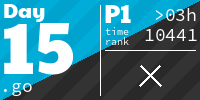
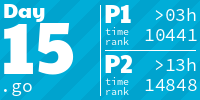
2024-12-15 part 2

diff --git a/2024/15/main.go b/2024/15/main.go
@@ -7,18 +7,13 @@ import (
 )
 
 func runeToDir(d rune) utils.Direction {
-	switch d {
-	case '^':
-		return utils.Up
-	case 'v':
-		return utils.Down
-	case '<':
-		return utils.Left
-	case '>':
-		return utils.Right
-
+	dirMap := map[rune]utils.Direction{
+		'^': utils.Up,
+		'v': utils.Down,
+		'<': utils.Left,
+		'>': utils.Right,
 	}
-	return utils.NotSet
+	return dirMap[d]
 }
 
 func part1(input arg) int {
@@ -29,41 +24,133 @@ func part1(input arg) int {
 
 	res := 0
 
+	moveObstacle := func(nextMove utils.Position, dir utils.Direction) {
+		for f := nextMove.Move(dir, 1); ; f = f.Move(dir, 1) {
+			if puzzle.Nodes[f] == '#' {
+				break
+			}
+			if puzzle.Nodes[f] == '.' {
+				input.robot = nextMove
+				puzzle.Nodes[nextMove] = '.'
+				puzzle.Nodes[f] = 'O'
+				break
+			}
+		}
+	}
+
 	for _, i := range input.inputs {
 		dir := runeToDir(i)
 		nextMove := input.robot.Move(dir, 1)
-		if puzzle.Nodes[nextMove] == '#' {
-			continue
-		}
-		if puzzle.Nodes[nextMove] == '.' {
-			input.robot = nextMove
-			continue
-		}
-		if puzzle.Nodes[nextMove] == 'O' {
-			f := nextMove.Move(dir, 1)
-			for {
-				if puzzle.Nodes[f] == '#' {
-					break
-				}
-				if puzzle.Nodes[f] == '.' {
-					input.robot = nextMove
-					puzzle.Nodes[nextMove] = '.'
-					puzzle.Nodes[f] = 'O'
-					break
-				}
-				f = f.Move(dir, 1)
-			}
-		}
 
+		switch puzzle.Nodes[nextMove] {
+		case '#':
+			continue
+		case '.':
+			input.robot = nextMove
+		case 'O':
+			moveObstacle(nextMove, dir)
+		}
 	}
 
-	for p := range puzzle.Nodes {
-		if puzzle.Nodes[p] == 'O' {
+	for p, val := range puzzle.Nodes {
+		if val == 'O' {
 			res += p.Col + p.Row*100
 		}
 	}
 
 	return res
+}
+
+func orderBoxPos(pos [2]utils.Position) [2]utils.Position {
+	if pos[0].Col < pos[1].Col {
+		return pos
+	}
+	return [2]utils.Position{pos[1], pos[0]}
+}
+
+func findMovedBoxes(puzzle utils.Grid[rune], pos [2]utils.Position, dir utils.Direction) [][2]utils.Position {
+	newLoc1 := pos[0].Move(dir, 1)
+	newLoc2 := pos[1].Move(dir, 1)
+
+	list := [][2]utils.Position{}
+	pos = orderBoxPos(pos)
+	list = append(list, pos)
+
+	newLoc := orderBoxPos([2]utils.Position{newLoc1, newLoc2})
+
+	switch dir {
+	case utils.Right:
+		if puzzle.Nodes[newLoc[1]] == '[' {
+			moved := [2]utils.Position{newLoc[1], newLoc[1].Move(dir, 1)}
+			list = append(list, findMovedBoxes(puzzle, moved, dir)...)
+		}
+	case utils.Left:
+		if puzzle.Nodes[newLoc[0]] == ']' {
+			moved := [2]utils.Position{newLoc[0], newLoc[0].Move(dir, 1)}
+			list = append(list, findMovedBoxes(puzzle, moved, dir)...)
+		}
+	case utils.Up, utils.Down:
+		if puzzle.Nodes[newLoc[0]] == '[' {
+			moved := [2]utils.Position{newLoc[0], newLoc[0].Move(utils.Right, 1)}
+			list = append(list, findMovedBoxes(puzzle, moved, dir)...)
+		}
+		if puzzle.Nodes[newLoc[0]] == ']' {
+			moved := [2]utils.Position{newLoc[0], newLoc[0].Move(utils.Left, 1)}
+			list = append(list, findMovedBoxes(puzzle, moved, dir)...)
+		}
+		if puzzle.Nodes[newLoc[1]] == '[' {
+			moved := [2]utils.Position{newLoc[1], newLoc[1].Move(utils.Right, 1)}
+			list = append(list, findMovedBoxes(puzzle, moved, dir)...)
+		}
+	}
+	return list
+}
+
+func moveBoxes(puzzle utils.Grid[rune], boxes [][2]utils.Position, dir utils.Direction) utils.Grid[rune] {
+	currentLeft := map[utils.Position]bool{}
+	currentRight := map[utils.Position]bool{}
+
+	for _, box := range boxes {
+		box = orderBoxPos(box)
+		currentLeft[box[0]] = true
+		currentRight[box[1]] = true
+	}
+
+	finalLeft := map[utils.Position]bool{}
+	finalRight := map[utils.Position]bool{}
+
+	for loc := range currentLeft {
+		newLoc := loc.Move(dir, 1)
+		finalLeft[newLoc] = true
+	}
+	for loc := range currentRight {
+		newLoc := loc.Move(dir, 1)
+		finalRight[newLoc] = true
+	}
+
+	for loc := range currentLeft {
+		if _, ok := finalLeft[loc]; !ok {
+			puzzle.Nodes[loc] = '.'
+		}
+	}
+	for loc := range currentRight {
+		if _, ok := finalRight[loc]; !ok {
+			puzzle.Nodes[loc] = '.'
+		}
+	}
+
+	for loc := range finalLeft {
+		if _, ok := currentLeft[loc]; !ok {
+			puzzle.Nodes[loc] = '['
+		}
+	}
+	for loc := range finalRight {
+		if _, ok := currentRight[loc]; !ok {
+			puzzle.Nodes[loc] = ']'
+		}
+	}
+
+	return puzzle
 }
 
 func part2(input arg) int {
@@ -95,21 +182,47 @@ func part2(input arg) int {
 
 	input.robot.Col *= 2
 
+	puzzle := utils.NewGrid(scaledPuzzle)
+	puzzle.Nodes[input.robot] = '.'
+
+	boxCanMove := func(pos [2]utils.Position, dir utils.Direction) bool {
+		if puzzle.Nodes[pos[1].Move(dir, 1)] == '#' || puzzle.Nodes[pos[0].Move(dir, 1)] == '#' {
+			return false
+		}
+		return true
+	}
+
 	for _, i := range input.inputs {
 		dir := runeToDir(i)
 		nextMove := input.robot.Move(dir, 1)
-		if scaledPuzzle[nextMove.Row][nextMove.Col] == '#' {
+		if puzzle.Nodes[nextMove] == '#' {
 			continue
 		}
-		if scaledPuzzle[nextMove.Row][nextMove.Col] == '.' {
+		if puzzle.Nodes[nextMove] == '.' {
 			input.robot = nextMove
 			continue
 		}
-		// gerer les []
-	}
 
-	puzzle := utils.NewGrid(scaledPuzzle)
-	puzzle.Nodes[input.robot] = '.'
+		var boxPos [2]utils.Position
+		if puzzle.Nodes[nextMove] == '[' {
+			boxPos = [2]utils.Position{nextMove, nextMove.Move(utils.Right, 1)}
+		} else {
+			boxPos = [2]utils.Position{nextMove, nextMove.Move(utils.Left, 1)}
+		}
+		boxesToMove := findMovedBoxes(puzzle, boxPos, dir)
+		canMove := true
+		for _, box := range boxesToMove {
+			if !boxCanMove(box, dir) {
+				canMove = false
+				break
+			}
+		}
+		if !canMove {
+			continue
+		}
+		puzzle = moveBoxes(puzzle, boxesToMove, dir)
+		input.robot = nextMove
+	}
 
 	for p := range puzzle.Nodes {
 		if puzzle.Nodes[p] == '[' {

diff --git a/README.md b/README.md
@@ -2,7 +2,7 @@
 
 <!-- AOC TILES BEGIN -->
 <h1 align="center">
-  2024 - 29 ⭐ - Go
+  2024 - 30 ⭐ - Go
 </h1>
 <a href="2024/01/input.go">
   <img src=".aoc_tiles/tiles/2024/01.png" width="161px">
